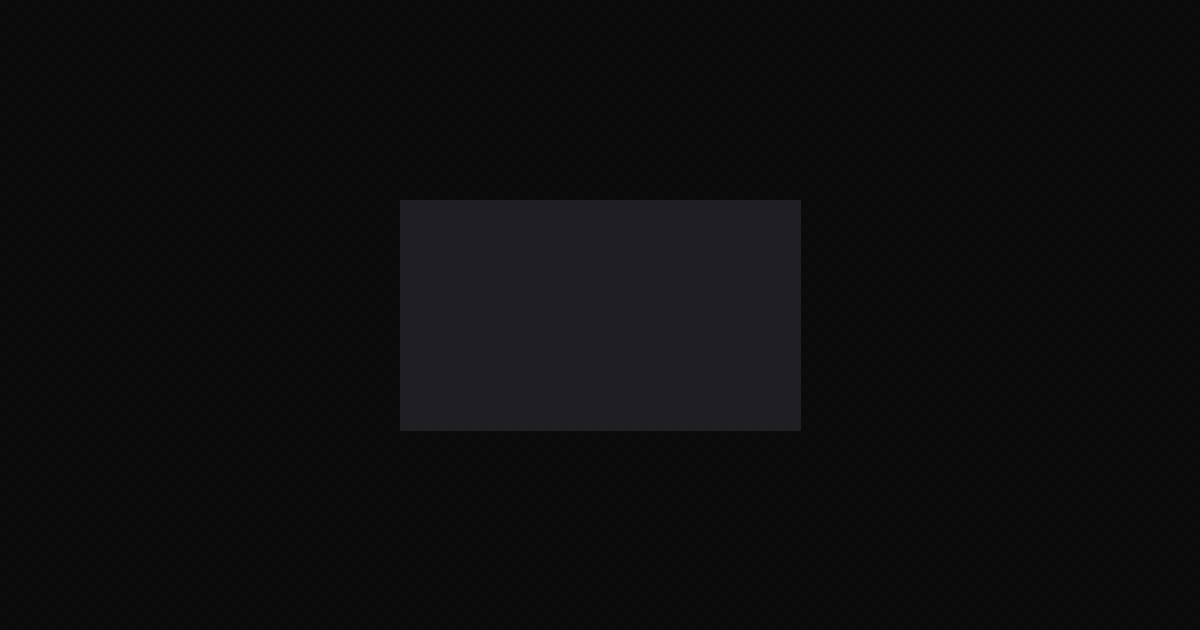
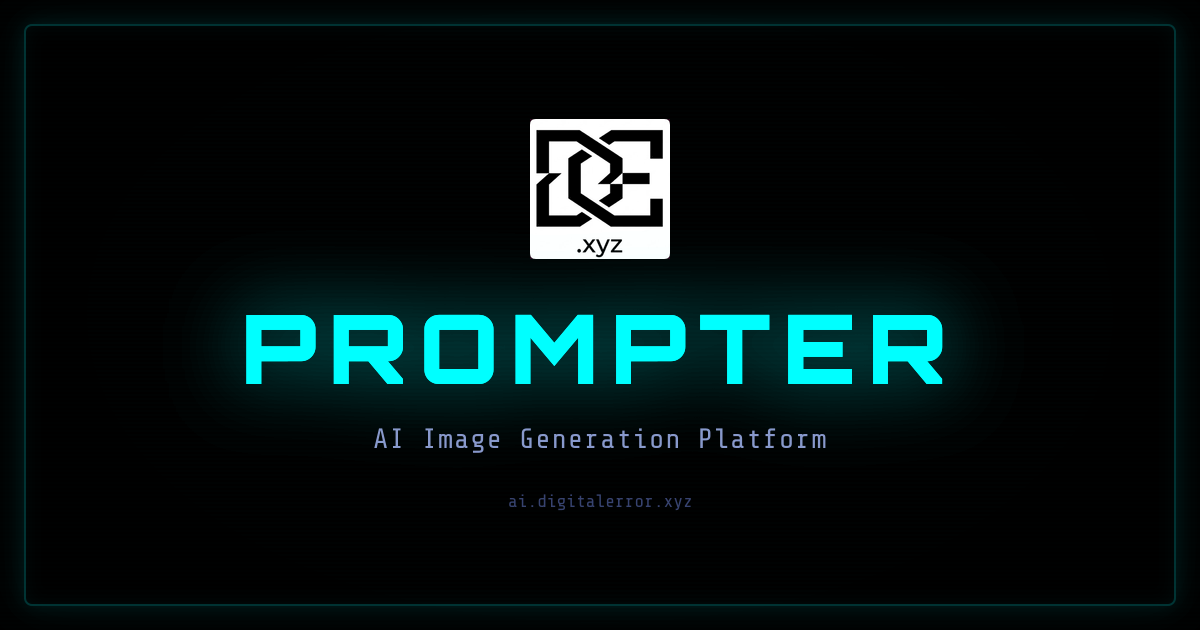
feat: Add dev dependency to generate og before build

diff --git a/frontend/scripts/generate-og-image.ts b/frontend/scripts/generate-og-image.ts
@@ -1,0 +1,214 @@
+import satori from 'satori';
+import sharp from 'sharp';
+import { readFileSync, writeFileSync } from 'fs';
+import { join } from 'path';
+
+const SCRIPT_DIR = import.meta.dir;
+const PUBLIC_DIR = join(SCRIPT_DIR, '..', 'public');
+const WIDTH = 1200;
+const HEIGHT = 630;
+
+async function fetchFont(family: string, weight: number): Promise<ArrayBuffer> {
+  const urlFriendly = family.replace(/ /g, '+');
+  const cssUrl = `https://fonts.googleapis.com/css2?family=${urlFriendly}:wght@${weight}`;
+  let resp = await fetch(cssUrl, {
+    headers: { 'User-Agent': 'Mozilla/5.0 AppleWebKit/537.36' },
+  });
+  if (!resp.ok) {
+    throw new Error(`Font CSS fetch failed for ${family}: HTTP ${resp.status}`);
+  }
+  const css = await resp.text();
+
+  const match = css.match(/url\(([^)]+)\)/);
+  if (!match) {
+    console.error(`    CSS response for ${family}:`, css.substring(0, 200));
+    throw new Error(`Could not find font URL for ${family} wght@${weight}`);
+  }
+  console.log(`    Font: ${family} ${weight} (${match[1].slice(0, 70)}...)`);
+  return fetch(match[1]).then(r => r.arrayBuffer());
+}
+
+async function main() {
+  console.log('Generating OG image...');
+
+  // 1. Load fonts
+  console.log('  [1/4] Loading fonts...');
+  const orbitron = await fetchFont('Orbitron', 900);
+  const shareTechMono = await fetchFont('Share Tech Mono', 400);
+
+  // 2. Convert favicon.ico to PNG data URI via sips (macOS built-in)
+  console.log('  [2/4] Processing favicon...');
+  const faviconPath = join(PUBLIC_DIR, 'favicon.ico');
+  const { stderr } = Bun.spawnSync([
+    'sips', '-s', 'format', 'png', faviconPath, '--out', '/tmp/favicon-og.png',
+  ]);
+  if (stderr.length > 0) console.error('    sips stderr:', stderr.toString());
+  const faviconPng = await sharp('/tmp/favicon-og.png')
+    .resize(140, 140, { fit: 'contain', background: { r: 0, g: 0, b: 0, alpha: 0 } })
+    .png()
+    .toBuffer();
+  const faviconDataUri = `data:image/png;base64,${faviconPng.toString('base64')}`;
+
+  // 3. Render SVG with satori
+  console.log('  [3/4] Rendering SVG...');
+  const svg = await satori(
+    {
+      type: 'div',
+      props: {
+        style: {
+          width: '100%',
+          height: '100%',
+          display: 'flex',
+          alignItems: 'center',
+          justifyContent: 'center',
+          backgroundColor: '#000000',
+          position: 'relative',
+        },
+        children: [
+          // CRT scanline overlay
+          {
+            type: 'div',
+            props: {
+              style: {
+                position: 'absolute',
+                top: 0,
+                left: 0,
+                right: 0,
+                bottom: 0,
+                backgroundImage:
+                  'repeating-linear-gradient(0deg, transparent, transparent 2px, rgba(0,255,255,0.025) 2px, rgba(0,255,255,0.025) 4px)',
+              },
+            },
+          },
+          // Vignette
+          {
+            type: 'div',
+            props: {
+              style: {
+                position: 'absolute',
+                top: 0,
+                left: 0,
+                right: 0,
+                bottom: 0,
+                backgroundImage:
+                  'radial-gradient(ellipse 70% 80% at center, transparent 30%, rgba(0,0,0,0.65) 100%)',
+              },
+            },
+          },
+          // Neon border frame
+          {
+            type: 'div',
+            props: {
+              style: {
+                position: 'absolute',
+                top: '24px',
+                left: '24px',
+                right: '24px',
+                bottom: '24px',
+                border: '2px solid rgba(0,255,255,0.18)',
+                borderRadius: '8px',
+                boxShadow:
+                  '0 0 20px rgba(0,255,255,0.1), 0 0 60px rgba(0,255,255,0.05), inset 0 0 20px rgba(0,255,255,0.05)',
+              },
+            },
+          },
+          // Content
+          {
+            type: 'div',
+            props: {
+              style: {
+                display: 'flex',
+                flexDirection: 'column',
+                alignItems: 'center',
+                justifyContent: 'center',
+                padding: '40px',
+                position: 'relative',
+              },
+              children: [
+                // Lightning bolt logo (from favicon)
+                {
+                  type: 'img',
+                  props: {
+                    src: faviconDataUri,
+                    width: 140,
+                    style: {
+                      filter: 'drop-shadow(0 0 18px rgba(255,0,170,0.55))',
+                    },
+                  },
+                },
+                // Title
+                {
+                  type: 'div',
+                  props: {
+                    style: {
+                      display: 'flex',
+                      fontFamily: 'Orbitron',
+                      fontWeight: 900,
+                      fontSize: '96px',
+                      color: '#00ffff',
+                      textShadow:
+                        '0 0 40px rgba(0,255,255,0.8), 0 0 80px rgba(0,255,255,0.3)',
+                      letterSpacing: '0.12em',
+                      textTransform: 'uppercase',
+                      marginTop: '28px',
+                    },
+                    children: 'PROMPTER',
+                  },
+                },
+                // Tagline
+                {
+                  type: 'div',
+                  props: {
+                    style: {
+                      fontFamily: 'Share Tech Mono',
+                      fontSize: '28px',
+                      color: '#8899cc',
+                      marginTop: '16px',
+                      letterSpacing: '0.04em',
+                    },
+                    children: 'AI Image Generation Platform',
+                  },
+                },
+                // Domain
+                {
+                  type: 'div',
+                  props: {
+                    style: {
+                      fontFamily: 'Share Tech Mono',
+                      fontSize: '18px',
+                      color: '#5566aa',
+                      marginTop: '36px',
+                      opacity: 0.65,
+                    },
+                    children: 'ai.digitalerror.xyz',
+                  },
+                },
+              ],
+            },
+          },
+        ],
+      },
+    },
+    {
+      width: WIDTH,
+      height: HEIGHT,
+      fonts: [
+        { name: 'Orbitron', data: orbitron, weight: 900, style: 'normal' },
+        { name: 'Share Tech Mono', data: shareTechMono, weight: 400, style: 'normal' },
+      ],
+    }
+  );
+
+  // 4. Convert SVG to PNG
+  console.log('  [4/4] Converting to PNG...');
+  const png = await sharp(Buffer.from(svg)).png().toBuffer();
+
+  const outputPath = join(PUBLIC_DIR, 'og-image.png');
+  writeFileSync(outputPath, png);
+  console.log(`  Done: ${outputPath} (${(png.length / 1024).toFixed(1)} KB)`);
+}
+
+main().catch(err => {
+  console.error('Failed to generate OG image:', err);
+  process.exit(1);
+});

diff --git a/frontend/vite.config.ts b/frontend/vite.config.ts
@@ -34,7 +34,7 @@ export default defineConfig(({ mode }) => ({
           },
           {
             src: '/favicon.ico',
-            sizes: '512x512',
+            sizes: '256x256',
             type: 'image/png',
             purpose: 'any maskable',
           },
@@ -50,14 +50,6 @@ export default defineConfig(({ mode }) => ({
             options: {
               cacheName: 'api-prompts',
               expiration: { maxEntries: 10 },
-            },
-          },
-          {
-            urlPattern: ({ url }: { url: URL }) => url.pathname.startsWith('/prompt-sample/'),
-            handler: 'CacheFirst',
-            options: {
-              cacheName: 'prompt-images',
-              expiration: { maxEntries: 50 },
             },
           },
           {